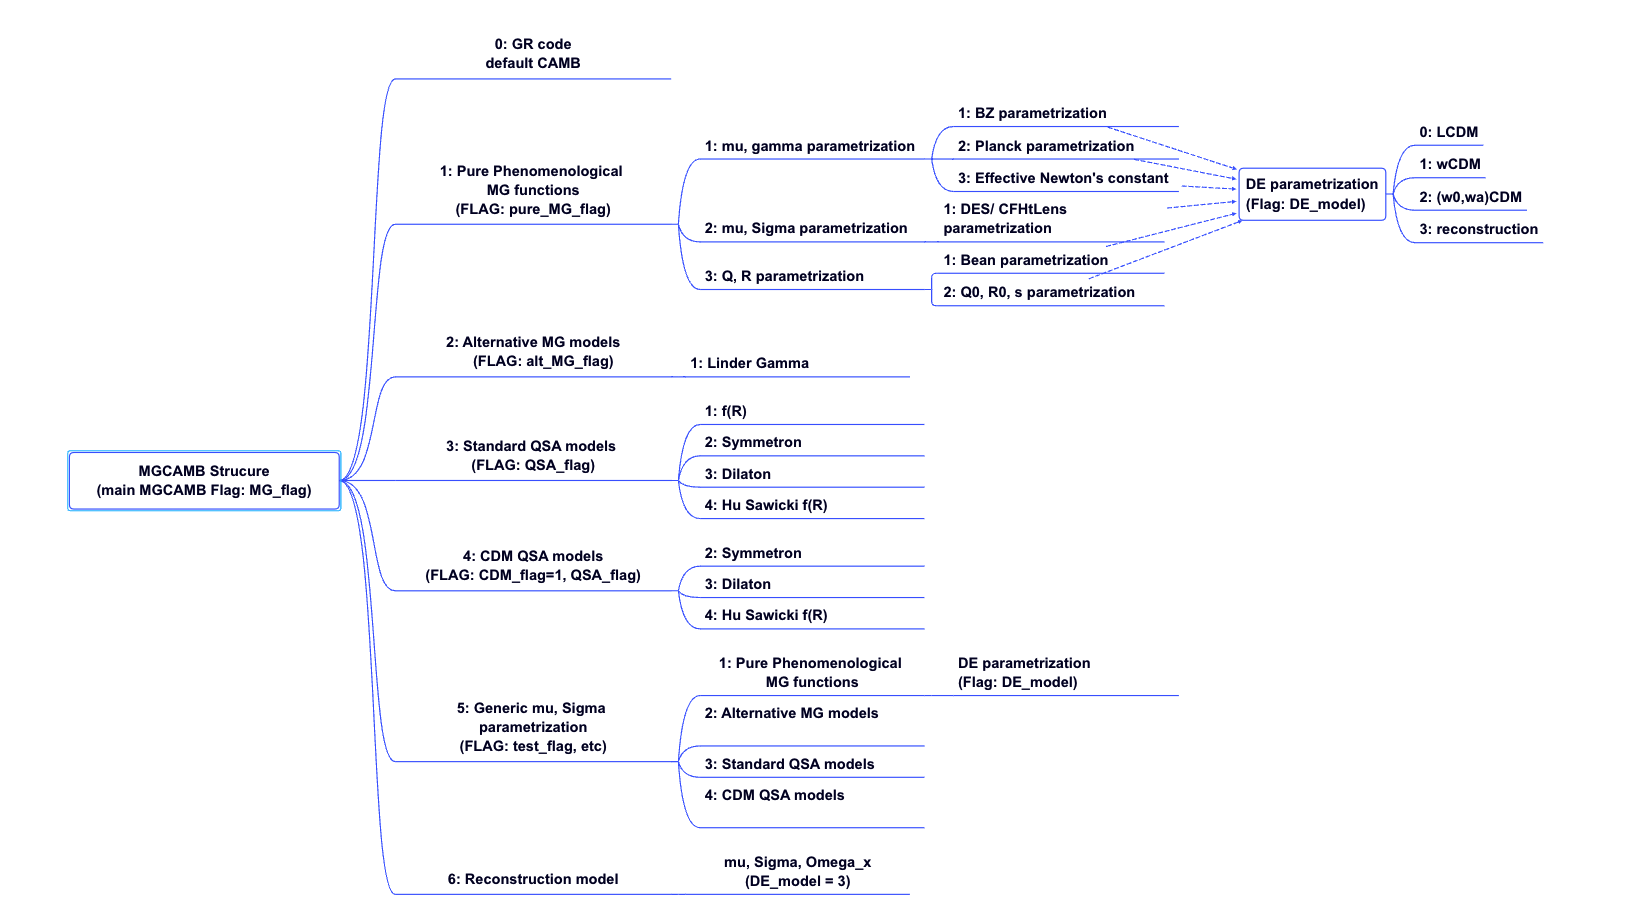
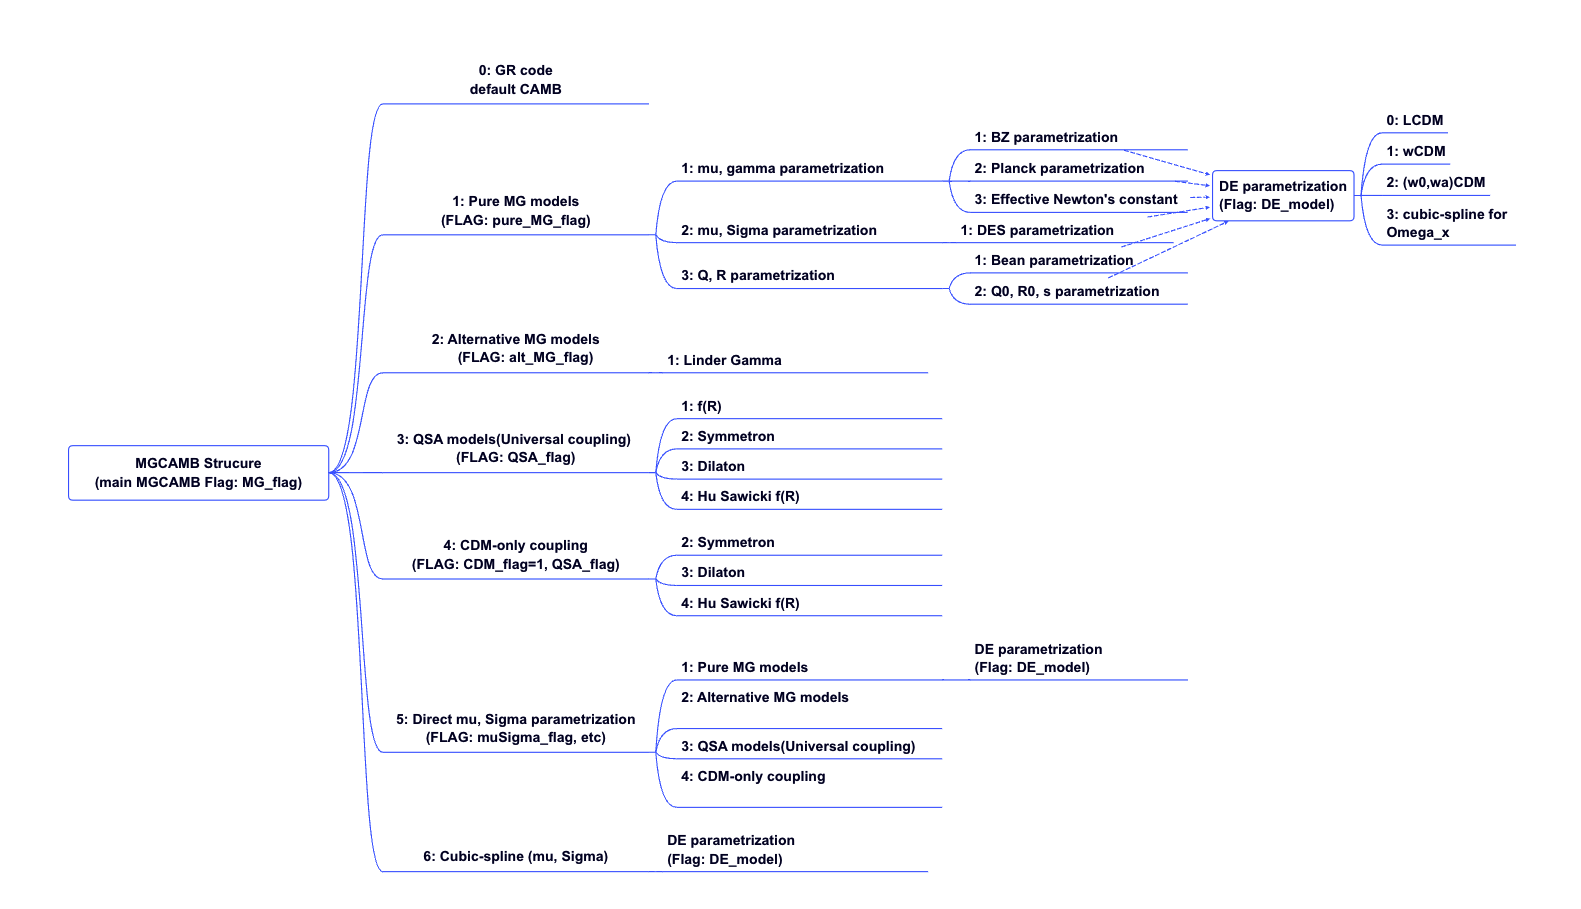
edit comments

diff --git a/README.md b/README.md
@@ -33,7 +33,7 @@ Modified Growth with CAMB (MGCAMB) is a patch for the Einstein Boltzmann solver 
 <img src="img/q_r.png" width="350" title="Q R parametrization" />
 </p>
 
-MGCAMB is implemented in the latest version of [CosmoMC](https://github.com/cmbant/CosmoMC). The MGCosmoMC code can be found on this [repository](https://github.com/sfu-cosmo/MGCosmoMC)
+MGCAMB is implemented in the latest version of [CosmoMC](https://github.com/cmbant/CosmoMC). The MGCosmoMC code can be found in this [repository](https://github.com/sfu-cosmo/MGCosmoMC).
 
 ### Structure of the code
 The new MGCAMB patch is structured as in the figure.
@@ -43,12 +43,17 @@ The new MGCAMB patch is structured as in the figure.
 </p>
 
 The parameters in  [``` params_MG.ini ``` ](inifiles/params_MG.ini) are used to run the code and follow the structure above. 
-Please, note that dynamical DE is supported in the ``` pure_MG_models ``` and ``` reconstruction model ```, where DE perturbations are also included. 
+Please, note that dynamical DE is supported in the ``` pure_MG_models ```, where DE perturbations could also be included, and ``` cubic-spline model ```. 
 
 
 
-### Citing MGCAMB
-If you use MGCAMB for your scientific work, please cite the following papers:
+### Citing MGCobaya
+If you use MGCobaya for your scientific work, please cite the following papers:
+
+* *New MGCAMB tests of gravity with CosmoMC and Cobaya*\
+    Zhuangfei Wang, Seyed Hamidreza Mirpoorian, Levon Pogosian, Alessandra Silvestri, Gong-Bo Zhao\
+    [arXiv:2305.05667 [astro-ph.CO]](https://arxiv.org/abs/2305.05667)
+
 
 * *MGCAMB with massive neutrinos and dynamical dark energy*   
     Alex Zucca, Levon Pogosian, Alessandra Silvestri, and Gong-Bo Zhao  
@@ -65,7 +70,7 @@ If you use MGCAMB for your scientific work, please cite the following papers:
     [arXiv:0809.3791 [astro-ph]](http://arxiv.org/abs/0809.3791), [Phys. Rev. D 79, 083513](https://journals.aps.org/prd/abstract/10.1103/PhysRevD.79.083513)
 
 
-as well as the original CAMB [paper](http://arxiv.org/abs/astro-ph/9911177). 
+as well as the original CAMB [paper](http://arxiv.org/abs/astro-ph/9911177).
 
 ## 2. How to install
 To install MGCAMB on your machine, simply run
@@ -76,7 +81,7 @@ make
 ```
 
 ## 3. How to run
-To run MGCAMB, first modify the  [``` params_MG.ini ``` ](inifiles/params_MG.ini) file according to which models you want to analyze. Then run
+To run MGCAMB, first modify the  [``` params_MG.ini ``` ](inifiles/params_MG.ini) file according to which models you want to use. Then run
 
 ```bash
 ./camb ../inifiles/params.ini
@@ -87,12 +92,14 @@ To run MGCAMB, first modify the  [``` params_MG.ini ``` ](inifiles/params_MG.ini
 ## 4. What's new
 New features with this new version of the code:
 - implemented the QSA models where only dark matter is coupled to scalar field
-- implemented reconstruction model for mu, Sigma and Omega_x
+- added background model based on parameterization of the DE density Omega_x, as opposed to w
+- implemented a non-parametric reconstruction of mu, Sigma and Omega_x based on cubic-spline interpolation
 - implemented the direct mu, Sigma parametrization for different models
-- extended the dynamical dark energy by including the option of having DE perturbations to be consistent with CAMB in GR limit
-- provide angular power spectrum of variables for MG models from python interface
+- the option of including DE perturbations to achieve the consistency with CAMB when working with $w \neq −1$ background models.
+- added a python wrapper to run MGCAMB from the python interface\
   (make sure to use function ``` set_mgparams ``` alongside other functions e.g. ``` set_cosmology ``` or ``` set_params ``` in your script.)
 - the code has been restructured and upgraded to CAMB version 1.3.5 
+- added compatibility with Cobaya [(MGCobaya)](https://github.com/sfu-cosmo/MGCobaya-beta)
 
 The MG and DE parametrizations along with the computation of the quantities related to the perturbations are introduced in the file [``` mgcamb.f90 ```](fortran/mgcamb.f90).
 
